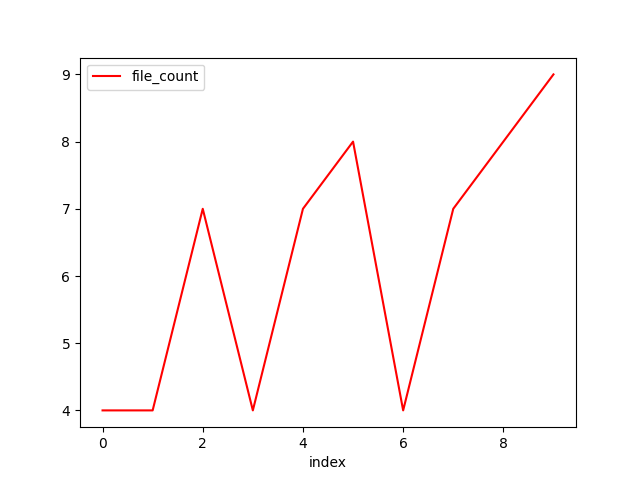
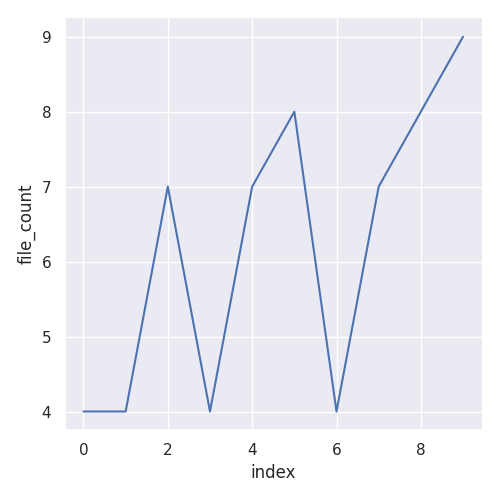
initialized ggplotgraph and made seaborngraph work

diff --git a/pythonFiles/seabornGraph.py b/pythonFiles/seabornGraph.py
@@ -1,0 +1,20 @@
+# importing stuff
+import sqlite3
+
+import matplotlib.pyplot as plt
+import pandas as pd
+import seaborn as sns
+
+sns.set_theme()
+
+# Path to .db file
+sql_file_path = "../Example-Data.db"
+
+# Connect to the SQLite database
+conn = sqlite3.Connection(database=sql_file_path)
+df = pd.read_sql_query("SELECT * FROM cloc LIMIT 10", con=conn)
+conn.close()
+
+sns.relplot(kind="line", x="index", y="file_count", data=df)
+plt.savefig("test.png")
+print(df)
